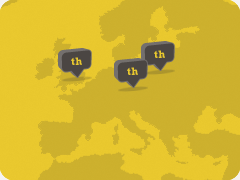
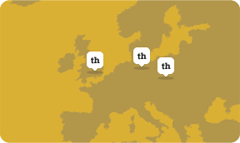
style changes from mtg with Mike

diff --git a/drupal/sites/all/themes/technically/css/style.css b/drupal/sites/all/themes/technically/css/style.css
@@ -26,7 +26,8 @@ table.cke_editor body {
 .views-field-title,
 .views-field-created,
 .views-field-field-date-time,
-.view-twitter-block .view-content {
+.view-twitter-block .view-content,
+.field-name-field-eventbrite-url a {
 	font-size: 1.3em;
 }
 #main-wrapper .view-messages label,
@@ -120,16 +121,14 @@ a.feed-icon {
 .right {
 	float: right;
 }
-.small {
-	font-size: 0.8em !important;
-}
 .btn,
 .btn-dark,
 .node-webform input.form-submit, 
 .node-webform a.button,
 #block-system-user-menu .menu a,
 input.form-submit,
-a.button {
+a.button,
+.field-name-field-eventbrite-url a {
 	display: block;
 	padding: 4px 6px 4px 30px;
 	margin: 20px auto;
@@ -145,7 +144,8 @@ a.button {
 .node-webform input.form-submit, 
 .node-webform a.button,
 input.form-submit,
-a.button {
+a.button,
+.field-name-field-eventbrite-url a {
 	background: #807a77 url(../images/arrow-grey.png) no-repeat 6px center;
 	color: #fff;
 }
@@ -268,6 +268,7 @@ li {
 	width: 116px;
 	margin-right: 6px;
 	padding: 8px 4px;
+	border: 0 none;
 }
 #user-login-block-container input.form-submit {
 	width: 30px;
@@ -291,6 +292,14 @@ li {
 	list-style: none outside none;	
 	margin: 0;
 	padding: 0;
+}
+#footer p.copyright {
+	color: #ac8a29;
+	margin-top: 6px;
+}
+.credit {
+	font-size: 0.8em !important;
+	margin-top: 36px;
 }
 /* user menu */
 #block-system-user-menu {
@@ -409,9 +418,20 @@ li {
 	font-weight: bold;
 	background: url(../images/dots-grey.png) repeat-x 0 top;
 }
+#footer div.section {
+	height: 165px;
+	background: url(../images/footer-graphic.png) no-repeat right 0;
+}
 #footer li {
 	display: inline;
 	float: left;
+}
+#partners-link {
+	height: 51px;
+	width: 230px;
+	margin: 12px 0;
+	display: block;
+	background: url(../images/hp-partners.png) no-repeat 0 0;
 }
 
 /* ------------------- Help ------------------- */
@@ -587,7 +607,7 @@ span.profile-title {
 	margin-top: 24px;
 }
 .time-ago {
-	color: grey;
+	color: #b5b5b5;
 	margin: 12px 0;
 }
 .message-author {
@@ -595,7 +615,7 @@ span.profile-title {
 }
 .blog-author, 
 .blog-date {
-	color: grey;
+	color: #b5b5b5;
 	text-align: center;
 	text-transform: uppercase;
 }
@@ -655,6 +675,9 @@ span.profile-title {
 .available {
 	border: 5px solid #a8001c !important;
 }
+.grey-text {
+	color: #B5B5B5;
+}
 #block-views-events-block-1 {
 	height: 540px;
 	position: relative;
@@ -707,9 +730,9 @@ span.profile-title {
 #block-th-messages-category .content li a,
 .latest-block .content li a {
 	display: block;
-	padding: 3px 6px;
-	background-color: #a8001c;
-	color: #fff;
+	padding: 1px 4px;
+	color: #332F2D;
+	background-color: #fff;
 	text-transform: uppercase;
 	font-weight: bold;
 	font-size: 0.8em;
@@ -717,12 +740,12 @@ span.profile-title {
 	-webkit-border-radius: 5px;
     -khtml-border-radius: 5px; 	  
 	border-radius: 5px;
+	border: 2px solid #a8001c;
 }
 #block-th-messages-tag .content li a.active,
 #block-th-messages-category .content li a.active {
-	color: #332F2D;
-	background-color: #fff;
-	border: 2px solid #a8001c;
+	background-color: #a8001c;
+	color: #fff;
 }
 .latest-block .content li a {
 	background-color: #fff;
@@ -864,7 +887,7 @@ ul.tabs {
 	border: 5px solid #ae944c;
 }
 .sidebar .yellow-block {
-	border: 5px solid #D9BC6C;
+	border: 5px solid #F1C33A;
 	background-color: #DAB034;
 }
 .yellow-block h2 {
@@ -904,11 +927,12 @@ ul.tabs {
 #block-views-blog-block-1 a.btn-dark {
 	width: 40px;
 }
-.view-events .node-teaser a.btn-dark {
+/*.view-events .node-teaser a.btn-dark {
+	width: 46px;
+}*/
+.field-name-field-eventbrite-url a {
 	width: 46px;
 }
-
-/* ------------------ Footer ------------------ */
 
 /* --------------- System Tabs  --------------- */
 

diff --git a/drupal/sites/all/themes/technically/css/layout.css b/drupal/sites/all/themes/technically/css/layout.css
@@ -95,6 +95,7 @@ body,
 #content-left,
 #content-right {
 	width: 300px;
+	height: 100%;
 }
 #content-left {
 	margin-right: 20px;

diff --git a/drupal/sites/all/themes/technically/templates/page.tpl.php b/drupal/sites/all/themes/technically/templates/page.tpl.php
@@ -134,18 +134,19 @@
 						<?php if ($action_links): ?><ul class="action-links"><?php print render($action_links); ?></ul><?php endif; ?>
 
 						<?php print render($page['content']); ?> 
-					
+
 						<?php if ($page['content_left']): ?>
 							<div id="content-left" class="column content-block">
 								<?php print render($page['content_left']); ?>
 							</div>
 						<?php endif; ?>
-					
+			
 						<?php if ($page['content_right']): ?>
 							<div id="content-right" class="column content-block">
 								<?php print render($page['content_right']); ?>
 							</div>
 						<?php endif; ?>
+	
 						
 						<?php if ($page['content_below']): ?>
 							<div id="content-below" class="column content-block">
@@ -167,9 +168,10 @@
 
 		<div id="footer">
 			<div class="section">
-				<div class="right"><?php print render($page['footer']); ?></div>
-				<p>&copy; TechHub <?php echo date("Y"); ?></p>
-				<p>Website by <a href="http://thirdsectordesign.org" target="_blank">Third Sector Design</a></p>
+				<a id="partners-link" href="/partners"></a>
+				<?php print render($page['footer']); ?>
+				<p class="copyright">&copy; TechHub <?php echo date("Y"); ?></p>
+				<p class="credit">Website by <a href="http://thirdsectordesign.org" target="_blank">Third Sector Design</a></p>
 			</div>
 		</div> <!-- end of footer -->
 

diff --git a/drupal/sites/all/themes/technically/template.php b/drupal/sites/all/themes/technically/template.php
@@ -85,6 +85,36 @@ function technically_correct_message_links($variables, $link){
 	return $output;
 }
 
+/**
+ * Edit to pager.
+ */
+function technically_pager($tags = array(), $limit = 10, $element = 0, $parameters = array(), $quantity = 9) {
+  global $pager_total;
+
+  $li_previous = theme('pager_previous', (isset($tags[1]) ? $tags[1] : t('‹ previous')), $limit, $element, 1, $parameters);
+  $li_next = theme('pager_next', (isset($tags[3]) ? $tags[3] : t('next ›')), $limit, $element, 1, $parameters);
+
+  if ($pager_total[$element] > 1) {
+
+    if ($li_previous) {
+      $items[] = array(
+        'class' => 'pager-previous', 
+        'data' => $li_previous,
+      );
+    }
+
+    // End generation.
+    if ($li_next) {
+      $items[] = array(
+        'class' => 'pager-next', 
+        'data' => $li_next,
+      );
+    }
+    return theme('item_list', $items, NULL, 'ul', array('class' => 'pager'));
+  }
+} 
+
+
 // function technically_process_field(&$variables, $hook){
 // 	if($variables['element']['#field_name'] == 'field_message_tags') {
 // 		print_r(($variables['items']));exit;

diff --git a/drupal/sites/all/themes/technically/templates/page--front.tpl.php b/drupal/sites/all/themes/technically/templates/page--front.tpl.php
@@ -138,9 +138,10 @@
 
 		<div id="footer">
 			<div class="section">
-				<div class="right"><?php print render($page['footer']); ?></div>
-				<p>&copy; TechHub <?php echo date("Y"); ?></p>
-				<p class="small">Website by <a href="http://thirdsectordesign.org" target="_blank">Third Sector Design</a></p>
+				<a id="partners-link" href="/partners"></a>
+				<?php print render($page['footer']); ?>
+				<p class="copyright">&copy; TechHub <?php echo date("Y"); ?></p>
+				<p class="credit">Website by <a href="http://thirdsectordesign.org" target="_blank">Third Sector Design</a></p>
 			</div>
 		</div> <!-- end of footer -->
 

diff --git a/drupal/sites/all/themes/technically/templates/node--event.tpl.php b/drupal/sites/all/themes/technically/templates/node--event.tpl.php
@@ -103,10 +103,11 @@
     ?>
   </div>
 
-  <?php if($teaser){
-      print l(t('Details'), 'node/' . $nid, array('attributes' => array('class' => t('node-readmore-link btn-dark')))); 
-  } 
-	print render($content['comments']);
+  <?php
+ // if($teaser){
+ //     print l(t('Details'), 'node/' . $nid, array('attributes' => array('class' => t('node-readmore-link btn-dark')))); 
+ // } 
+ //	print render($content['comments']);
 ?>
 
 </div>
